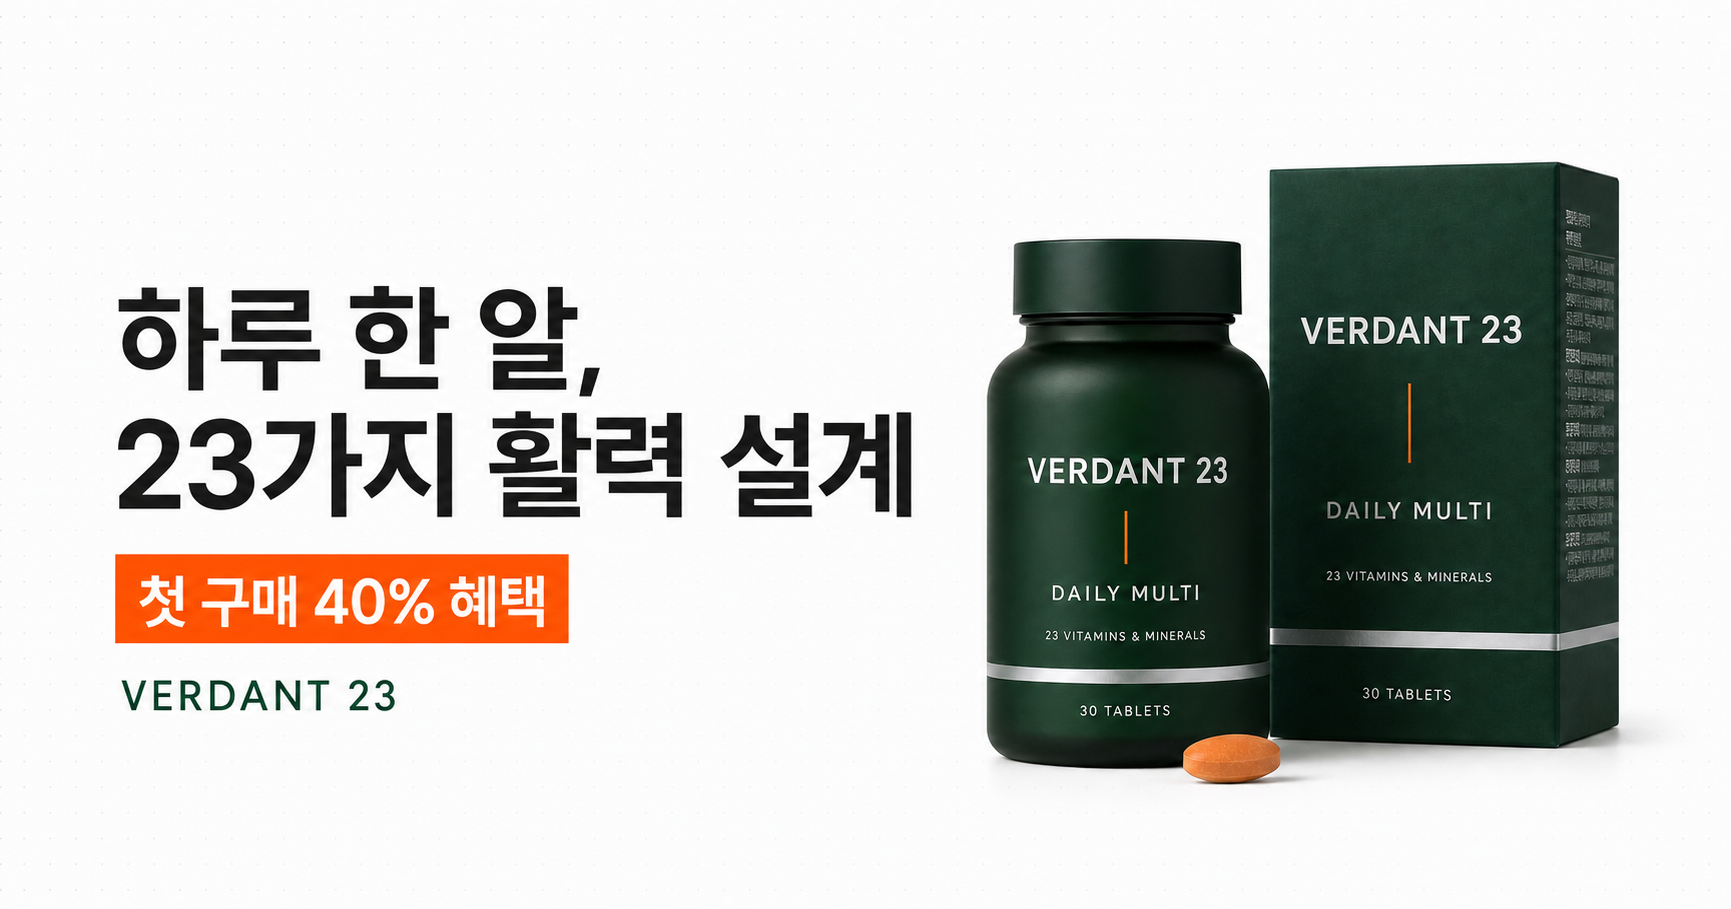
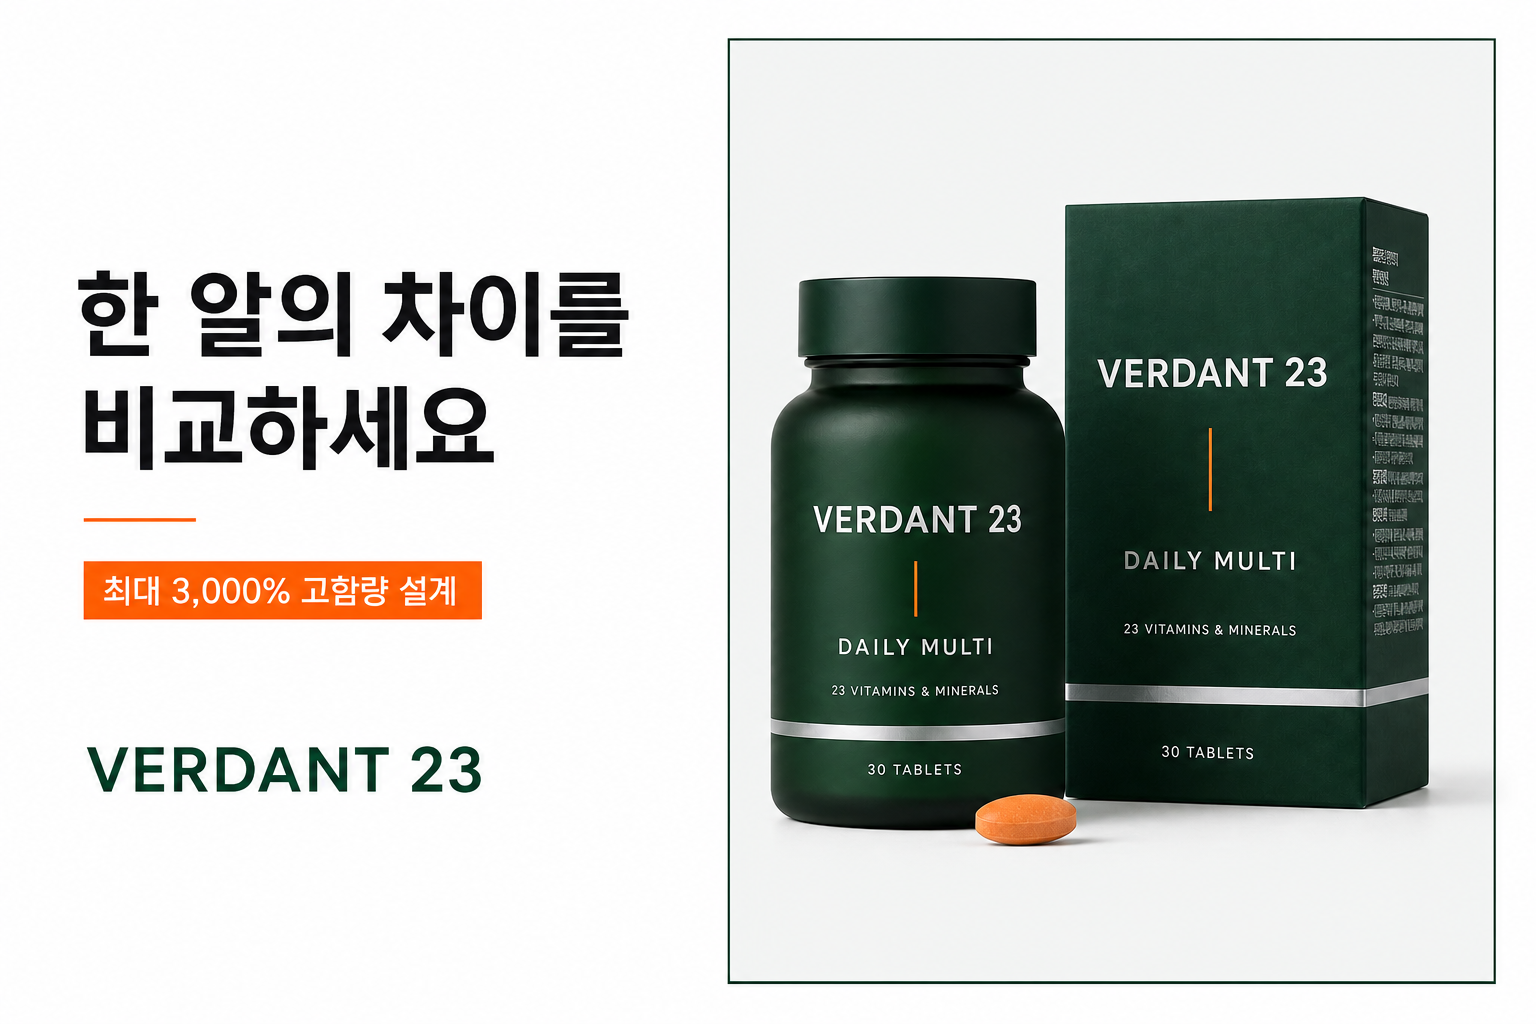
Refine section hierarchy and product comparison

Changed region(s): [[0.0312, 0.154, 1.0, 0.8625], [0.4688, 0.9549, 0.9688, 0.9857], [0.4688, 0.0308, 0.9688, 0.0616]]

diff --git a/app/globals.css b/app/globals.css
@@ -319,3 +319,162 @@ footer { padding: 54px 0 125px; border-top: 1px solid #e8e8e8; background: #fff;
   html { scroll-behavior: auto; }
   *, *::before, *::after { transition-duration: .01ms !important; animation-duration: .01ms !important; }
 }
+
+/* Visual hierarchy refinement */
+.section-pad { padding: 120px 0; }
+.section-index { display: inline-flex; align-items: center; gap: 10px; margin-bottom: 22px; }
+.section-index::before { content: ""; width: 24px; height: 2px; background: var(--orange); }
+
+.hero {
+  min-height: 860px;
+  display: block;
+  padding: 150px max(5vw, calc((100vw - 1180px)/2)) 112px;
+  background: #fff;
+}
+.hero::after {
+  content: "";
+  position: absolute;
+  z-index: 1;
+  inset: 0;
+  background: linear-gradient(90deg, rgba(255,255,255,.98) 0%, rgba(255,255,255,.94) 29%, rgba(255,255,255,.44) 48%, rgba(255,255,255,0) 68%);
+  pointer-events: none;
+}
+.hero-pattern { z-index: 2; width: 48%; opacity: .035; mask-image: linear-gradient(90deg, #000, transparent); }
+.hero-copy { width: min(520px, 48%); min-height: 580px; padding: 20px 0 42px; position: relative; z-index: 4; }
+.hero-visual { position: absolute; z-index: 0; inset: 0; min-height: 0; margin: 0; }
+.hero-visual::before { display: none; }
+.hero-visual img { object-fit: cover; object-position: center 52%; mix-blend-mode: normal; transform: none; }
+.visual-label { left: auto; right: 7.5%; top: 130px; }
+.product-chip { right: 8%; bottom: 125px; }
+.hero-proof { z-index: 6; }
+
+.problem { padding-top: 126px; background: #fff; border-top: 10px solid #f2f5f3; }
+.problem::before { content: "01"; top: 62px; right: 6%; font-size: 250px; opacity: .022; }
+.problem-grid { gap: 120px; padding-bottom: 112px; }
+.problem-heading { padding-top: 8px; }
+.problem-list { padding: 12px 26px; background: #f7f9f8; border-top: 0; border-left: 3px solid var(--green); }
+.problem-list > div { padding: 23px 0; }
+.solution-strip { position: relative; }
+.solution-strip::before { content: ""; position: absolute; top: 0; left: 50%; width: 1px; height: 100%; background: rgba(255,255,255,.08); }
+
+.comparison {
+  position: relative;
+  overflow: hidden;
+  background: #f1f4f2;
+  border-top: 1px solid #dfe6e2;
+  border-bottom: 1px solid #dfe6e2;
+}
+.comparison::before { content: "COMPARE"; position: absolute; top: 58px; left: 50%; transform: translateX(-50%); color: var(--green); opacity: .025; font-size: clamp(90px, 12vw, 180px); font-weight: 850; letter-spacing: -.06em; }
+.comparison .section-shell { position: relative; z-index: 1; }
+.compare-kicker { margin-bottom: 12px; color: var(--green) !important; font-weight: 650; }
+.center-heading h2 span { color: var(--green); }
+.compare-showcase { display: grid; grid-template-columns: minmax(0, .88fr) 84px minmax(0, 1.12fr); align-items: end; margin-top: 58px; }
+.compare-option { position: relative; overflow: hidden; background: #fff; }
+.compare-basic { margin-bottom: 30px; border: 1px solid #dfe4e1; color: #626963; background: #e9edeb; }
+.compare-featured { border: 2px solid var(--green); box-shadow: 0 24px 52px rgba(11,60,38,.14); }
+.featured-badge { position: absolute; z-index: 4; top: 0; right: 0; padding: 10px 15px; color: #fff; background: var(--orange); font-size: 9px; font-weight: 800; letter-spacing: .08em; }
+.option-topline { display: flex; align-items: center; justify-content: space-between; padding: 23px 26px 0; }
+.option-topline > span { color: #999; font-size: 9px; font-weight: 800; letter-spacing: .14em; }
+.option-topline > small { font-size: 11px; font-weight: 700; }
+.compare-featured .option-topline > span, .compare-featured .option-topline > small { color: var(--green); }
+.generic-visual { height: 178px; display: flex; align-items: center; justify-content: center; gap: 13px; opacity: .55; }
+.generic-visual span { display: block; width: 31px; height: 74px; border: 1px solid #9da5a0; border-radius: 20px; background: linear-gradient(to bottom, #fff 50%, #cbd1cd 50%); transform: rotate(-12deg); }
+.generic-visual span:nth-child(2) { height: 56px; transform: rotate(13deg); }
+.generic-visual span:nth-child(3) { width: 36px; height: 36px; transform: none; background: #c4cac6; }
+.generic-visual span:nth-child(4) { height: 63px; transform: rotate(7deg); }
+.compare-product-image { position: relative; height: 248px; margin-top: 3px; overflow: hidden; background: #fff; }
+.compare-product-image img { object-fit: cover; object-position: 69% 53%; transform: scale(1.09); }
+.compare-option h3 { padding: 0 26px 25px; font-size: 20px; line-height: 1.45; letter-spacing: -.025em; }
+.compare-featured h3 { padding: 0 32px 27px; color: var(--green); font-size: 24px; }
+.compare-featured h3 strong { color: var(--orange); font-weight: 750; }
+.option-specs { border-top: 1px solid rgba(0,0,0,.08); }
+.option-specs > div { min-height: 57px; display: grid; grid-template-columns: 1fr 1.25fr; align-items: center; gap: 12px; padding: 10px 24px; border-bottom: 1px solid rgba(0,0,0,.07); }
+.option-specs > div:last-child { border-bottom: 0; }
+.option-specs small { color: #8b928e; font-size: 10px; }
+.option-specs span { text-align: right; color: #676e69; font-size: 12px; }
+.featured-specs > div { position: relative; grid-template-columns: 1fr 1.45fr 18px; padding: 10px 28px; background: rgba(18,78,51,.035); }
+.featured-specs strong { text-align: right; color: var(--green); font-size: 13px; }
+.featured-specs i { display: grid; place-items: center; width: 18px; height: 18px; border-radius: 50%; color: #fff; background: var(--orange); font-size: 10px; font-style: normal; }
+.upgrade-flow { align-self: center; position: relative; z-index: 3; display: flex; flex-direction: column; align-items: center; gap: 8px; color: var(--orange); transform: translateY(-12px); }
+.upgrade-flow span { padding: 7px 9px; color: #fff; background: var(--orange); font-size: 8px; font-weight: 800; letter-spacing: .08em; }
+.upgrade-flow b { font-size: 28px; }
+.table-note { margin-top: 18px; }
+
+.ingredients { padding-top: 128px; border-top: 12px solid #fff; box-shadow: inset 0 1px 0 #e8ecea; }
+.ingredients::before { opacity: .022; width: 54%; }
+.bento-grid { grid-template-columns: 1.08fr .86fr .86fr; grid-template-rows: 268px 268px; gap: 14px; }
+.bento-primary { grid-column: 1; grid-row: 1 / 3; }
+.bento-wide { grid-column: 2 / 4; grid-row: 2; flex-direction: row; align-items: flex-end; gap: 34px; }
+.bento-wide > div:nth-child(2) { flex: 1; }
+.origin-stamp { flex: 0 0 auto; align-self: flex-end; }
+
+.reviews { border-top: 12px solid #eef2f0; }
+.offer { position: relative; padding-top: 128px; background: #f4f6f5; border-top: 12px solid #fff; }
+.offer::before { content: "05"; position: absolute; right: 4%; top: 38px; color: var(--green); opacity: .028; font-size: 230px; font-weight: 850; line-height: 1; }
+.offer .section-shell { position: relative; z-index: 1; }
+
+.sticky-bar {
+  width: min(740px, calc(100% - 32px));
+  min-height: 68px;
+  bottom: 16px;
+  padding: 8px 9px 8px 16px;
+  color: var(--ink);
+  background: rgba(255,255,255,.72);
+  border: 1px solid rgba(255,255,255,.85);
+  border-radius: 14px;
+  box-shadow: 0 14px 42px rgba(11,60,38,.14);
+  backdrop-filter: blur(24px) saturate(1.35);
+  -webkit-backdrop-filter: blur(24px) saturate(1.35);
+}
+.discount-badge { width: 40px; height: 40px; font-size: 12px; }
+.sticky-copy { gap: 11px; }
+.sticky-copy b { color: var(--green); font-size: 12px; }
+.sticky-copy small { color: #7f8983; font-size: 9px; }
+.sticky-bar button { min-width: 196px; height: 50px; border-radius: 9px; padding: 0 17px; }
+
+@media (max-width: 980px) {
+  .hero { min-height: 810px; padding-left: 32px; padding-right: 32px; }
+  .hero-copy { width: 48%; min-height: 530px; }
+  .compare-showcase { grid-template-columns: minmax(0, .9fr) 62px minmax(0, 1.1fr); }
+  .bento-grid { grid-template-columns: 1fr 1fr; grid-template-rows: 350px 248px 300px; }
+  .bento-primary { grid-column: span 2; grid-row: auto; }
+  .bento-wide { grid-column: span 2; grid-row: auto; }
+}
+
+@media (max-width: 720px) {
+  .section-pad { padding: 86px 0; }
+  .hero { height: 930px; min-height: 0; padding: 104px 16px 98px; }
+  .hero::after { background: linear-gradient(180deg, #fff 0%, rgba(255,255,255,.98) 40%, rgba(255,255,255,.3) 59%, rgba(255,255,255,0) 76%); }
+  .hero-copy { width: 100%; min-height: 0; padding: 0; }
+  .hero-visual { top: 350px; bottom: 82px; }
+  .hero-visual img { object-fit: contain; object-position: center bottom; }
+  .visual-label { top: 50px; left: 7%; right: auto; }
+  .product-chip { right: 6%; bottom: 80px; }
+  .problem { padding-top: 90px; border-top-width: 8px; }
+  .problem-grid { gap: 40px; padding-bottom: 72px; }
+  .problem-list { padding: 8px 18px; }
+  .comparison::before { top: 34px; font-size: 70px; }
+  .compare-showcase { grid-template-columns: 1fr; gap: 0; margin-top: 42px; }
+  .compare-basic { margin: 0 14px; }
+  .compare-featured { margin-top: 0; }
+  .upgrade-flow { margin: -2px 0; transform: none; }
+  .upgrade-flow b { transform: rotate(90deg); }
+  .generic-visual { height: 145px; }
+  .compare-product-image { height: 225px; }
+  .compare-featured h3 { font-size: 22px; }
+  .ingredients { padding-top: 90px; border-top-width: 8px; }
+  .bento-grid { grid-template-columns: 1fr 1fr; grid-template-rows: 390px 220px 300px; }
+  .bento-wide { display: flex; flex-direction: row; align-items: flex-end; }
+  .reviews, .offer { border-top-width: 8px; }
+  .offer { padding-top: 90px; }
+  .sticky-bar { width: calc(100% - 20px); bottom: 8px; border-radius: 12px; }
+  .sticky-copy small { display: none; }
+  .sticky-bar button { min-width: 178px; }
+}
+
+@media (max-width: 390px) {
+  .compare-basic { margin: 0 8px; }
+  .bento-grid { grid-template-columns: 1fr; grid-template-rows: 390px 210px 210px 300px; }
+  .bento-primary, .bento-wide { grid-column: auto; }
+  .bento-wide { display: flex; }
+}

diff --git a/app/page.tsx b/app/page.tsx
@@ -92,20 +92,29 @@ export default function Home() {
         <div className="section-shell narrow-shell">
           <div className="center-heading">
             <span className="section-index">02 · COMPARE</span>
-            <h2>직접 비교해보고 결정하세요</h2>
-            <p>매일 먹는 제품이니까, 무엇이 얼마나 다른지 숫자로 확인하세요.</p>
+            <p className="compare-kicker">같은 한 알이어도, 설계는 다릅니다</p>
+            <h2>현재 드시는 제품과<br /><span>VERDANT 23을 비교해보세요</span></h2>
+            <p>함량부터 복용 편의성, 원료 출처까지 중요한 기준만 선명하게 정리했습니다.</p>
           </div>
-          <div className="compare-card">
-            <div className="compare-head compare-grid">
-              <span>비교 항목</span>
-              <span>일반 종합비타민</span>
-              <span className="our-head"><small>OUR PICK</small> VERDANT 23</span>
-            </div>
-            {comparisonRows.map(([label, normal, ours]) => (
-              <div className="compare-row compare-grid" key={label}>
-                <b>{label}</b><span>{normal}</span><strong>{ours}<i aria-hidden="true">✓</i></strong>
+          <div className="compare-showcase">
+            <article className="compare-option compare-basic">
+              <div className="option-topline"><span>BEFORE</span><small>일반 종합비타민</small></div>
+              <div className="generic-visual" aria-hidden="true"><span /><span /><span /><span /></div>
+              <h3>여러 알로 채우는<br />일반적인 영양 루틴</h3>
+              <div className="option-specs">
+                {comparisonRows.map(([label, normal]) => <div key={label}><small>{label}</small><span>{normal}</span></div>)}
               </div>
-            ))}
+            </article>
+            <div className="upgrade-flow" aria-hidden="true"><span>UPGRADE</span><b>→</b></div>
+            <article className="compare-option compare-featured">
+              <div className="featured-badge">OUR PICK · BEST</div>
+              <div className="option-topline"><span>AFTER</span><small>VERDANT 23</small></div>
+              <div className="compare-product-image"><Image src="/verdant23-product.png" alt="VERDANT 23 멀티비타민" fill sizes="(max-width: 720px) 86vw, 430px" /></div>
+              <h3>하루 한 알로 완성하는<br /><strong>23가지 고함량 설계</strong></h3>
+              <div className="option-specs featured-specs">
+                {comparisonRows.map(([label, , ours]) => <div key={label}><small>{label}</small><strong>{ours}</strong><i aria-hidden="true">✓</i></div>)}
+              </div>
+            </article>
           </div>
           <p className="table-note">* 함량은 영양성분 기준치 대비 최대치 기준이며 성분별 함량은 제품 라벨을 확인해 주세요. 가격은 3개월 정기 구성 기준입니다.</p>
         </div>
